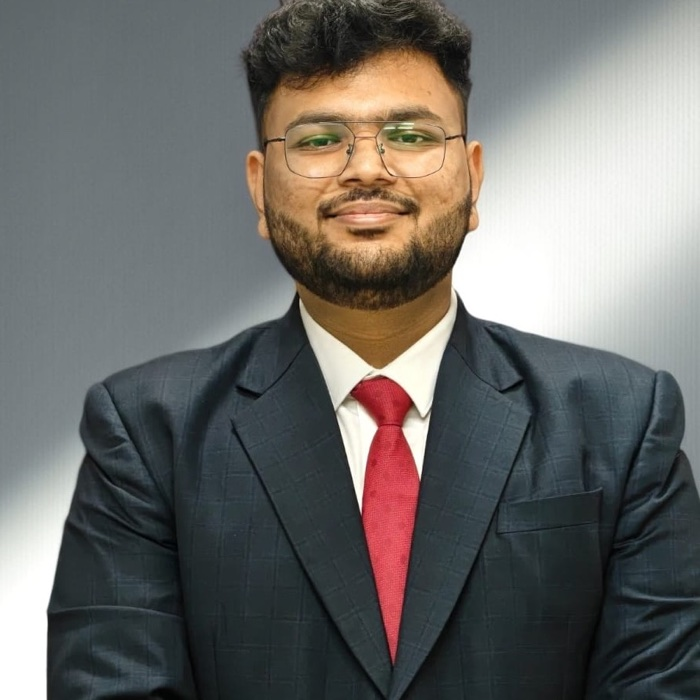
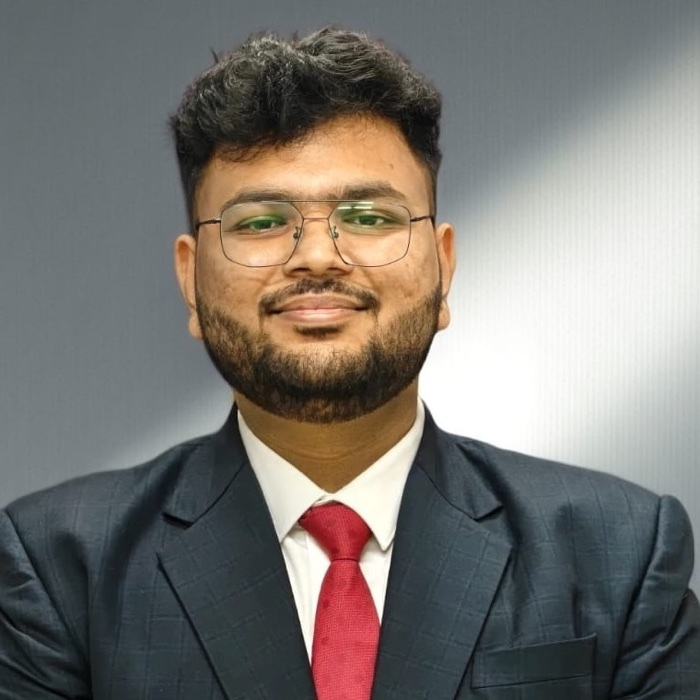
Use the photo crop Anu supplied, reshape the frame to fit it

diff --git a/v2/index.html b/v2/index.html
@@ -81,7 +81,7 @@
         </div>
         <figure class="cv-card rv">
           <div class="sheet">
-            <img src="../assets/photo.jpg" alt="Anu Yesh Sinha" width="800" height="1000">
+            <img src="../assets/photo.jpg" alt="Anu Yesh Sinha" width="649" height="1000">
           </div>
           <div class="cv-actions">
             <a href="../assets/Anu-Yesh-Sinha-Resume.pdf" target="_blank" rel="noopener">Open resum&eacute; <span aria-hidden="true">↗</span></a>
@@ -117,7 +117,7 @@
       <figure class="about-photo rv">
         <picture>
           <source media="(max-width: 720px)" srcset="../assets/photo-square.jpg">
-          <img src="../assets/photo.jpg" alt="Anu Yesh Sinha" width="800" height="1000">
+          <img src="../assets/photo.jpg" alt="Anu Yesh Sinha" width="649" height="1000">
         </picture>
       </figure>
       <div>

diff --git a/v2/style.css b/v2/style.css
@@ -194,7 +194,7 @@ button { font: inherit; }
 /* ---------- About ---------- */
 .about { display: grid; grid-template-columns: .8fr 1.2fr; gap: clamp(28px, 6vw, 80px); align-items: start; }
 .about-photo { border: 1px solid var(--hair); border-radius: 4px; overflow: hidden; }
-.about-photo img { width: 100%; aspect-ratio: 4/5; height: auto; object-fit: cover; object-position: 50% 8%; filter: grayscale(.2); }
+.about-photo img { width: 100%; height: auto; filter: grayscale(.2); }
 .about-text { font-family: var(--serif); font-size: clamp(1.25rem, .95rem + 1.4vw, 1.95rem); line-height: 1.34; letter-spacing: -.01em; }
 .about-text + .about-text { margin-top: 18px; }
 .triple { display: grid; grid-template-columns: repeat(3, 1fr); gap: clamp(18px, 3vw, 40px); margin-top: clamp(34px, 5vw, 60px); padding-top: 30px; border-top: 1px solid var(--hair); }

diff --git a/styles.css b/styles.css
@@ -99,7 +99,7 @@ p { margin: 0; }
 .dot { width: 8px; height: 8px; border-radius: 50%; background: #2fa36b; flex: none; transform: translateY(-1px); box-shadow: 0 0 0 4px color-mix(in srgb, #2fa36b 20%, transparent); }
 
 .portrait {
-  margin: 0; position: relative; aspect-ratio: 4 / 5; max-width: 100%;
+  margin: 0; position: relative; aspect-ratio: 649 / 1000; max-width: 100%;
   border-radius: 18px; overflow: hidden; background: var(--accent);
   box-shadow: var(--shadow);
 }

diff --git a/index.html b/index.html
@@ -48,7 +48,7 @@
     <figure class="portrait">
       <picture>
         <source media="(max-width: 720px)" srcset="assets/photo-square.jpg">
-        <img src="assets/photo.jpg" alt="Anu Yesh Sinha" width="800" height="1000" onerror="this.remove()">
+        <img src="assets/photo.jpg" alt="Anu Yesh Sinha" width="649" height="1000" onerror="this.remove()">
       </picture>
       <span class="monogram" aria-hidden="true">AS</span>
     </figure>
